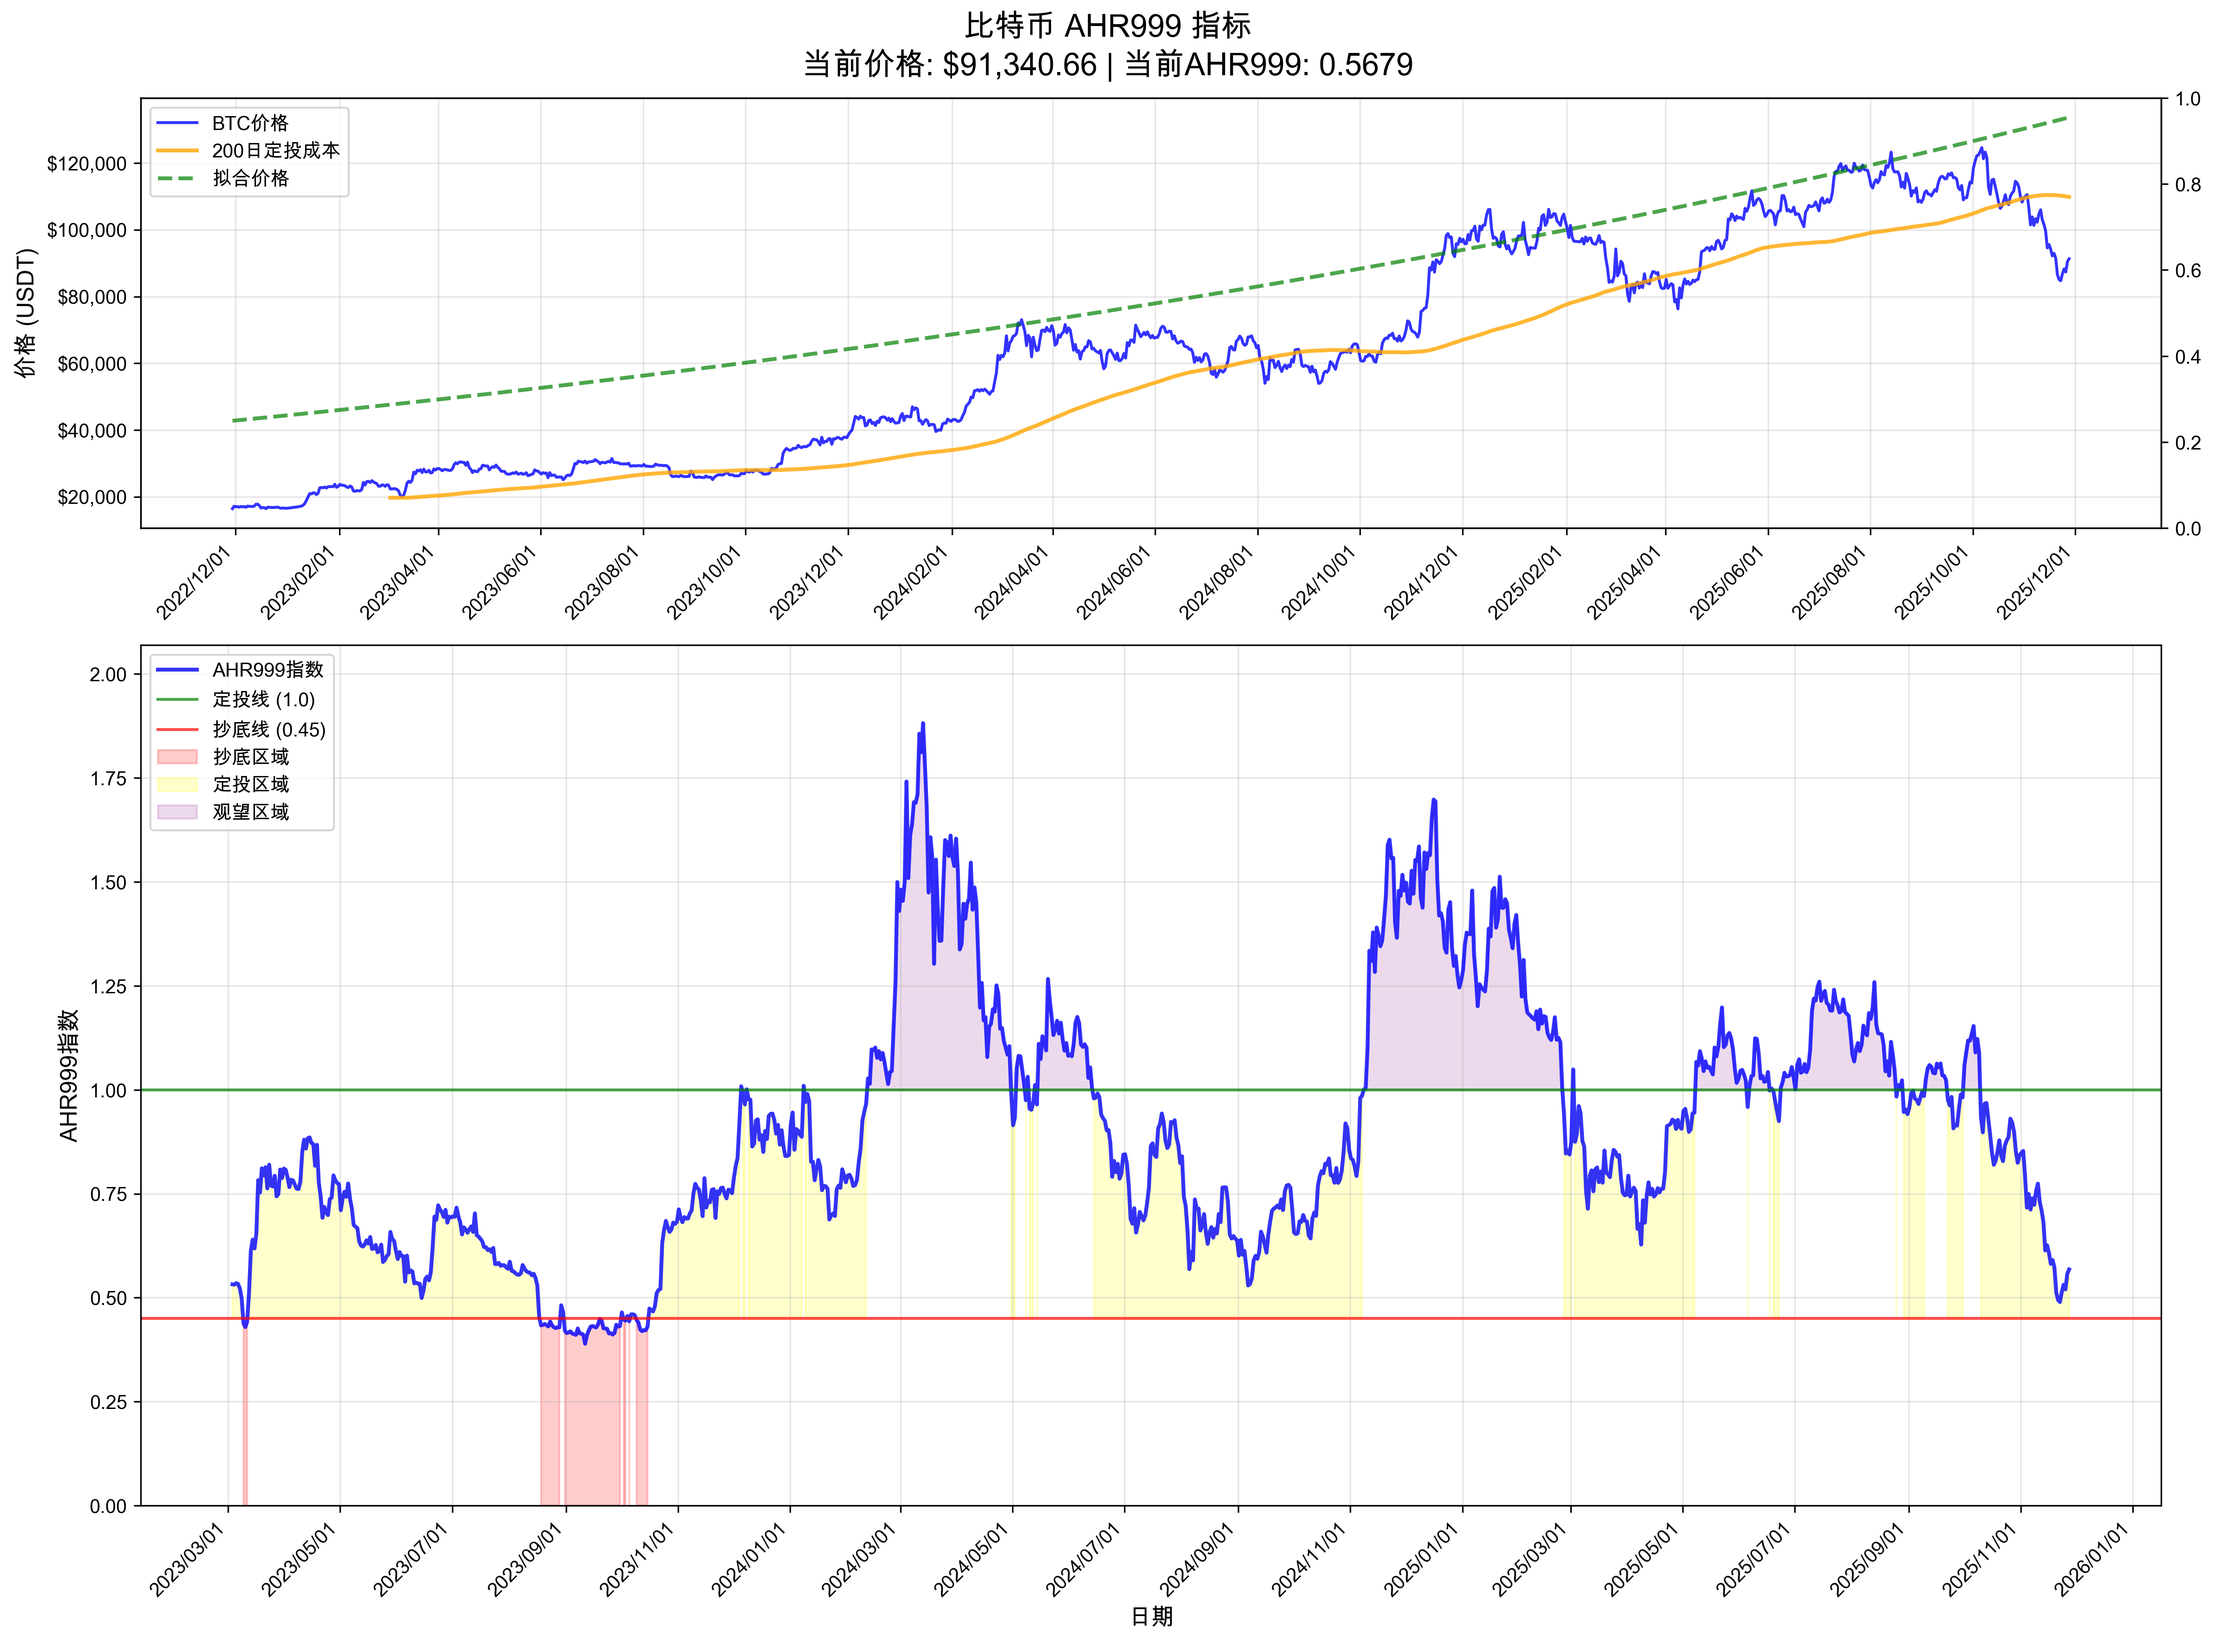
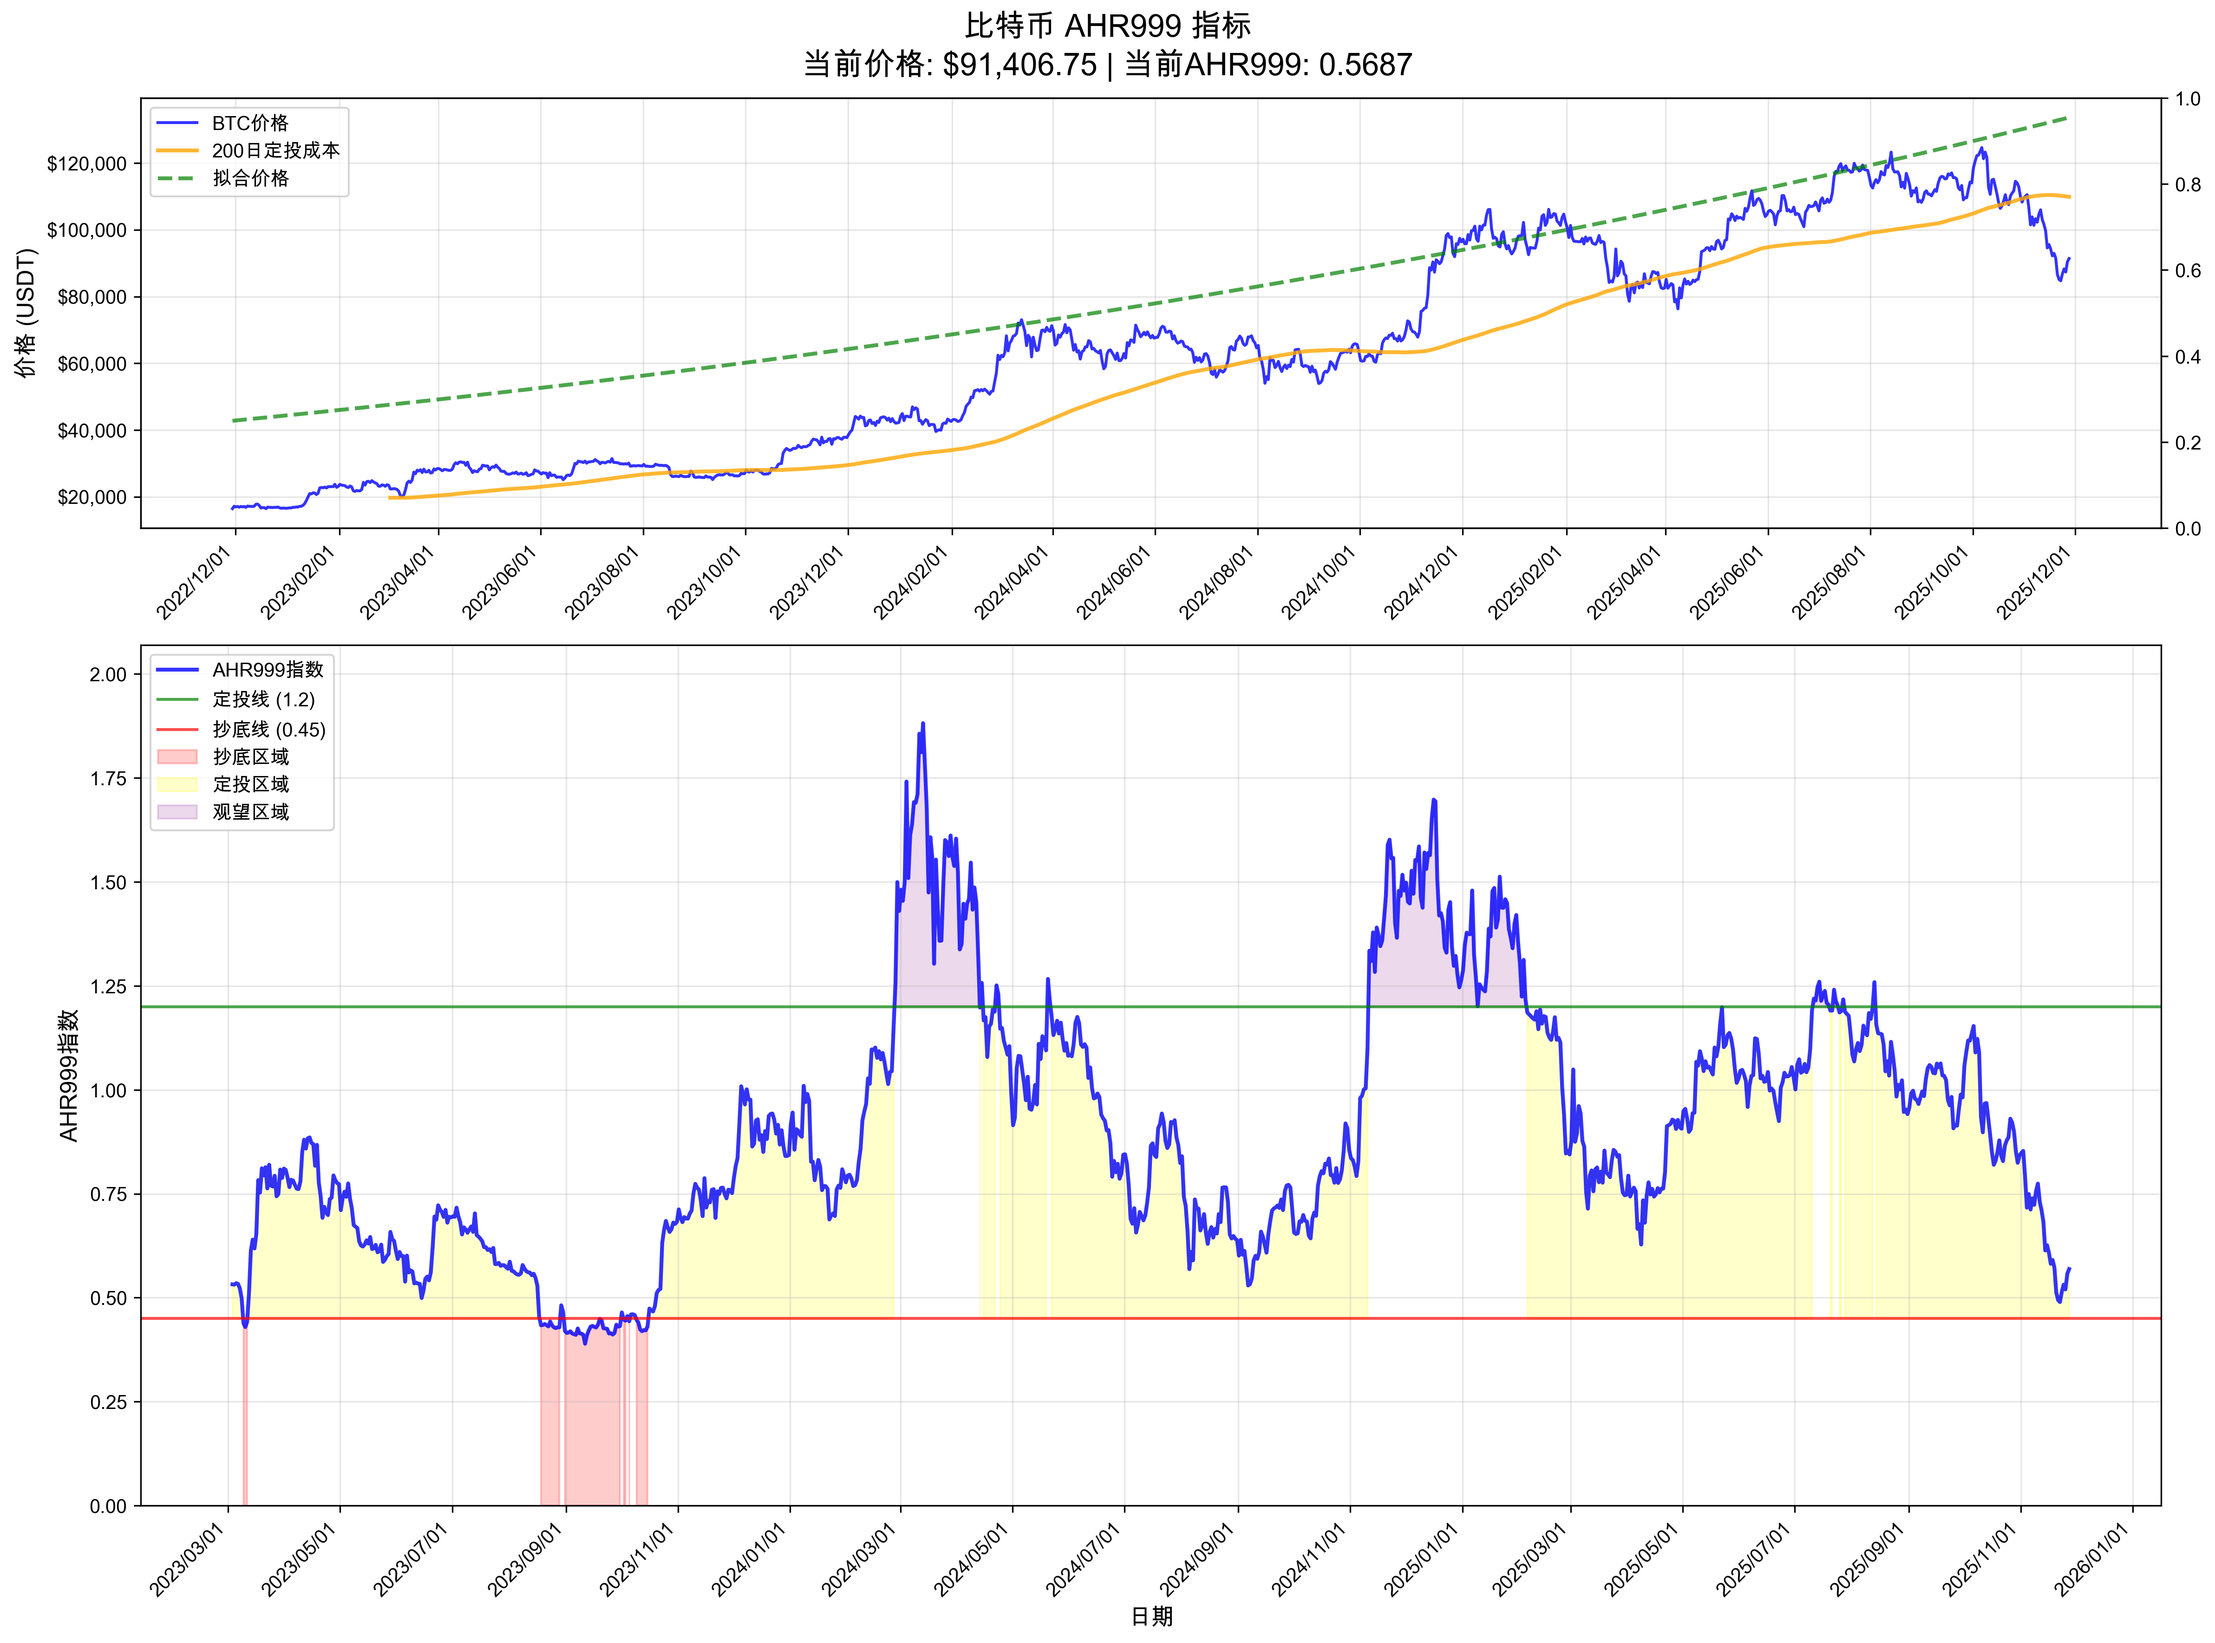
Update DCA threshold to 1.2 and optimize AHR999 calculation

diff --git a/visualize_ahr999.py b/visualize_ahr999.py
@@ -122,8 +122,8 @@ def main():
              label='AHR999指数', alpha=0.8)
     
     # 添加阈值线
-    ax2.axhline(y=1.0, color='green', linestyle='-', linewidth=1.5, 
-                label='定投线 (1.0)', alpha=0.7)
+    ax2.axhline(y=1.2, color='green', linestyle='-', linewidth=1.5, 
+                label='定投线 (1.2)', alpha=0.7)
     ax2.axhline(y=0.45, color='red', linestyle='-', linewidth=1.5, 
                 label='抄底线 (0.45)', alpha=0.7)
     
@@ -132,10 +132,10 @@ def main():
                      where=[v <= 0.45 if not np.isnan(v) else False for v in ahr999_values_display],
                      color='red', alpha=0.2, label='抄底区域')
     ax2.fill_between(dates_display, 0.45, ahr999_values_display,
-                     where=[(v > 0.45 and v <= 1.0) if not np.isnan(v) else False for v in ahr999_values_display],
+                     where=[(v > 0.45 and v <= 1.2) if not np.isnan(v) else False for v in ahr999_values_display],
                      color='yellow', alpha=0.2, label='定投区域')
-    ax2.fill_between(dates_display, 1.0, ahr999_values_display,
-                     where=[v > 1.0 if not np.isnan(v) else False for v in ahr999_values_display],
+    ax2.fill_between(dates_display, 1.2, ahr999_values_display,
+                     where=[v > 1.2 if not np.isnan(v) else False for v in ahr999_values_display],
                      color='purple', alpha=0.15, label='观望区域')
     
     # 设置AHR999轴
@@ -180,7 +180,7 @@ def main():
     
     if current_ahr999 < 0.45:
         print(f"  💰 建议: 抄底 - 定投 200 USDT")
-    elif current_ahr999 < 1.0:
+    elif current_ahr999 < 1.2:
         print(f"  📊 建议: 定投 - 定投 100 USDT")
     else:
         print(f"  ⏸  建议: 观望 - 不定投")

diff --git a/diagnose_ahr999.py b/diagnose_ahr999.py
@@ -151,7 +151,7 @@ def main():
     # AHR999对比 - 方法1
     ax2 = axes[1]
     ax2.plot(dates, ahr999_method1, 'b-', label='AHR999-方法1（线性回归）', alpha=0.8)
-    ax2.axhline(y=1.0, color='green', linestyle='-', alpha=0.5, label='定投线')
+    ax2.axhline(y=1.2, color='green', linestyle='-', alpha=0.5, label='定投线')
     ax2.axhline(y=0.45, color='red', linestyle='-', alpha=0.5, label='抄底线')
     ax2.fill_between(dates, 0, ahr999_method1, 
                      where=[v <= 0.45 if not np.isnan(v) else False for v in ahr999_method1],
@@ -164,7 +164,7 @@ def main():
     # AHR999对比 - 方法2
     ax3 = axes[2]
     ax3.plot(dates, ahr999_method2, 'r-', label='AHR999-方法2（幂律模型）', alpha=0.8)
-    ax3.axhline(y=1.0, color='green', linestyle='-', alpha=0.5, label='定投线')
+    ax3.axhline(y=1.2, color='green', linestyle='-', alpha=0.5, label='定投线')
     ax3.axhline(y=0.45, color='red', linestyle='-', alpha=0.5, label='抄底线')
     ax3.fill_between(dates, 0, ahr999_method2,
                      where=[v <= 0.45 if not np.isnan(v) else False for v in ahr999_method2],

diff --git a/verify_2023.py b/verify_2023.py
@@ -23,5 +23,5 @@ for i, (date, price) in enumerate(data):
         ahr999 = (price / ma200) * (price / fitted)
         
         if target_start <= date <= target_end and date.day == 1:
-            status = '抄底' if ahr999 < 0.45 else ('定投' if ahr999 < 1.0 else '观望')
+            status = '抄底' if ahr999 < 0.45 else ('定投' if ahr999 < 1.2 else '观望')
             print(f"{date.strftime('%Y-%m-%d'):<12} ${price:>9.0f} ${ma200:>9.0f} ${fitted:>11.0f} {ahr999:>10.4f} {status:<10}")

diff --git a/README.md b/README.md
@@ -7,8 +7,8 @@
 - 🤖 **自动定投**：根据AHR999指标自动执行定投策略
 - 📊 **智能策略**：
   - AHR999 < 0.45：定投200U（抄底线）
-  - AHR999 < 1.0：定投100U（定投线）
-  - AHR999 >= 1.0：不操作
+  - AHR999 < 1.2：定投100U（定投线）
+  - AHR999 >= 1.2：不操作
 - 🌐 **多交易所支持**：Binance、OKX、Bitget
 - ⏰ **定时执行**：每天北京时间00:00自动检查并执行
 - 📝 **详细日志**：记录所有操作和交易历史
@@ -23,8 +23,8 @@ AHR999 = (BTC当前价格 / BTC 200日定投成本) × (BTC当前价格 / BTC拟
 ```
 
 - **< 0.45**：抄底区域，适合大额买入
-- **0.45 - 1.0**：定投区域，适合定期买入
-- **> 1.0**：观望区域，不建议买入
+- **0.45 - 1.2**：定投区域，适合定期买入
+- **> 1.2**：观望区域，不建议买入
 
 ## 安装
 
